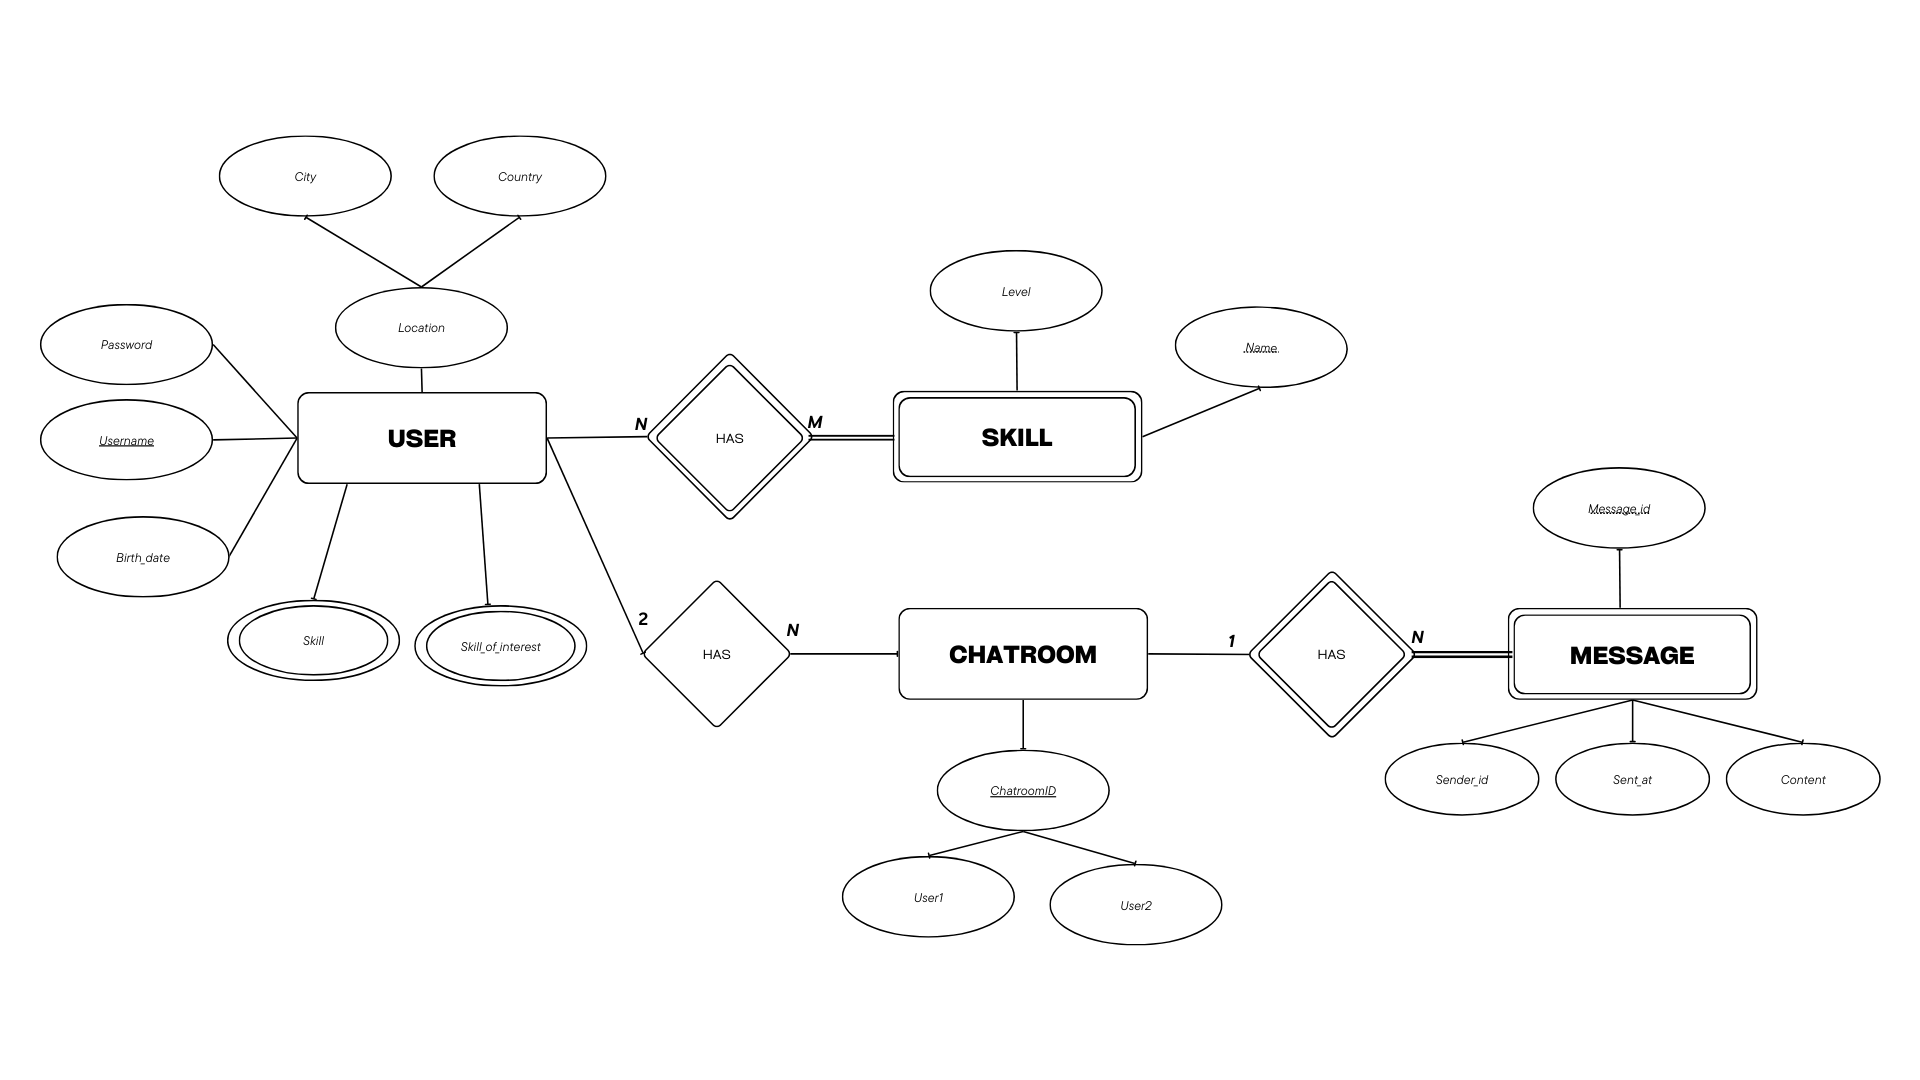
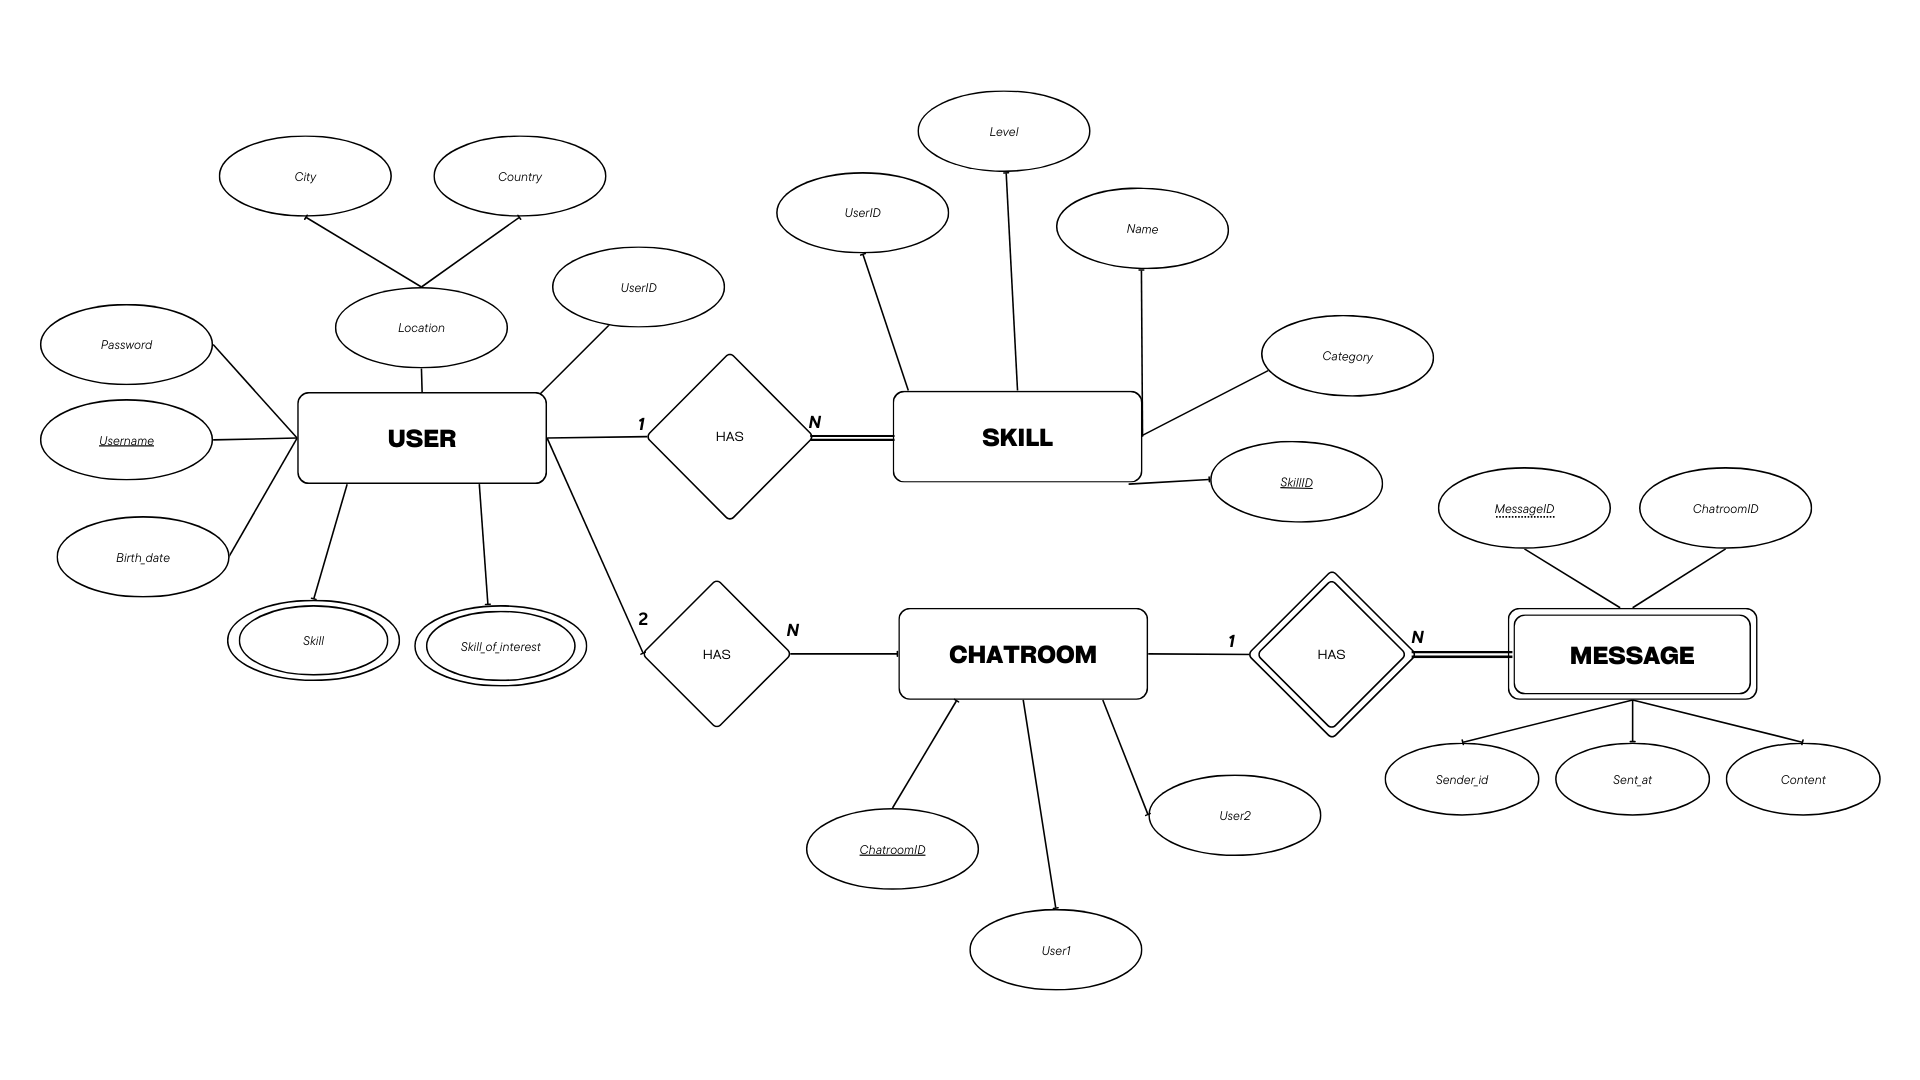
#3 Update the ER diagram along with the models

diff --git a/server/models/chatroom.js b/server/models/chatroom.js
@@ -3,19 +3,17 @@ var mongoose = require('mongoose');
 var Schema = mongoose.Schema;
 
 // Define Mongoose chatroom schema
-var chatroomSchema = new Schema ({
-    
-        user1: {
-            type: Schema.Types.ObjectId,
-            ref: 'User',
-            required: true
-        },
-        user2: {
-            type: Schema.Types.ObjectId,
-            ref: 'User',
-            required: true
-        }
-    
+var chatroomSchema = new Schema({ 
+    user1: {
+        type: Schema.Types.ObjectId,
+        ref: 'User',
+        required: true
+    },
+    user2: {
+        type: Schema.Types.ObjectId,
+        ref: 'User',
+        required: true
+    }
 });
 
 // Ensure combination of fields is unique

diff --git a/server/models/skill.js b/server/models/skill.js
@@ -7,7 +7,6 @@ var skillSchema = new Schema ({
     name: {
         type: String,
         required: true,
-
     },
     level: {
         type: Number,
@@ -15,11 +14,11 @@ var skillSchema = new Schema ({
         max: [10, 'Level can at maximum be 10'],
         required: true
     },
-    category : {
+    category: {
         type: String,
         required: true,
     }, 
-    user : {
+    user: {
         type: Schema.Types.ObjectId,
         ref: 'User',  // Reference to the User model
         required: true

diff --git a/server/models/message.js b/server/models/message.js
@@ -6,11 +6,8 @@ var Schema = mongoose.Schema;
 var messageSchema = new Schema ({
     chatroomID: {
         type: Schema.Types.ObjectId,
-        ref: 'Chatroom'
-    },
-    messageID: {
-        type: Number,
-        unique: true
+        ref: 'Chatroom',
+        requred: true
     },
     senderID: {
         type: Schema.Types.ObjectId,
